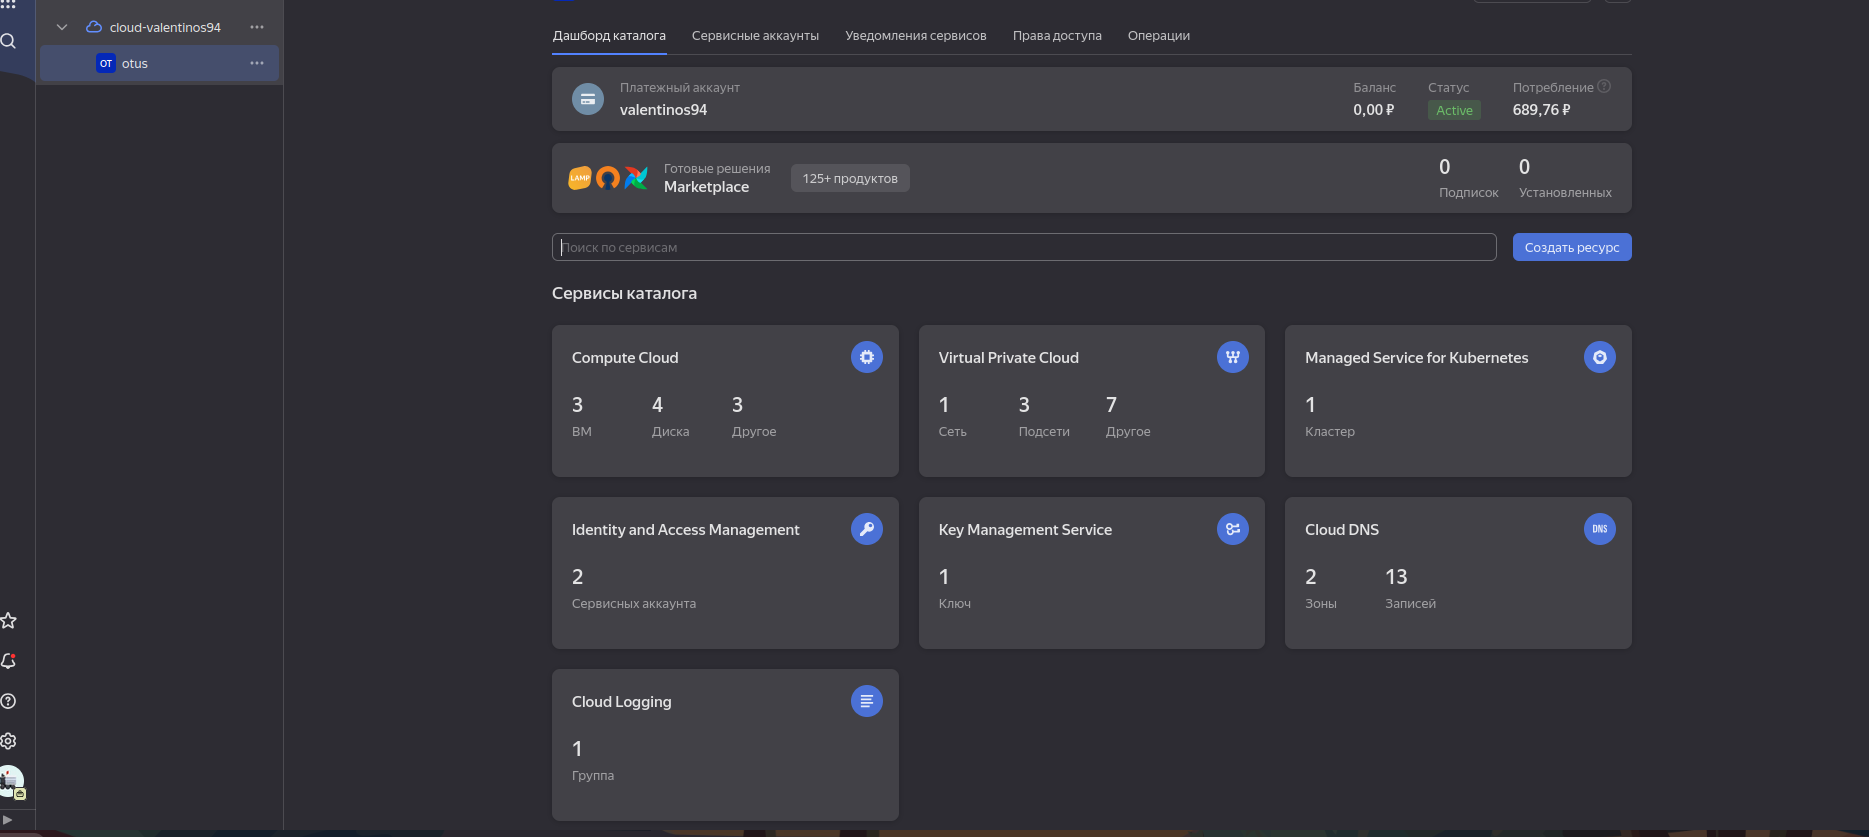
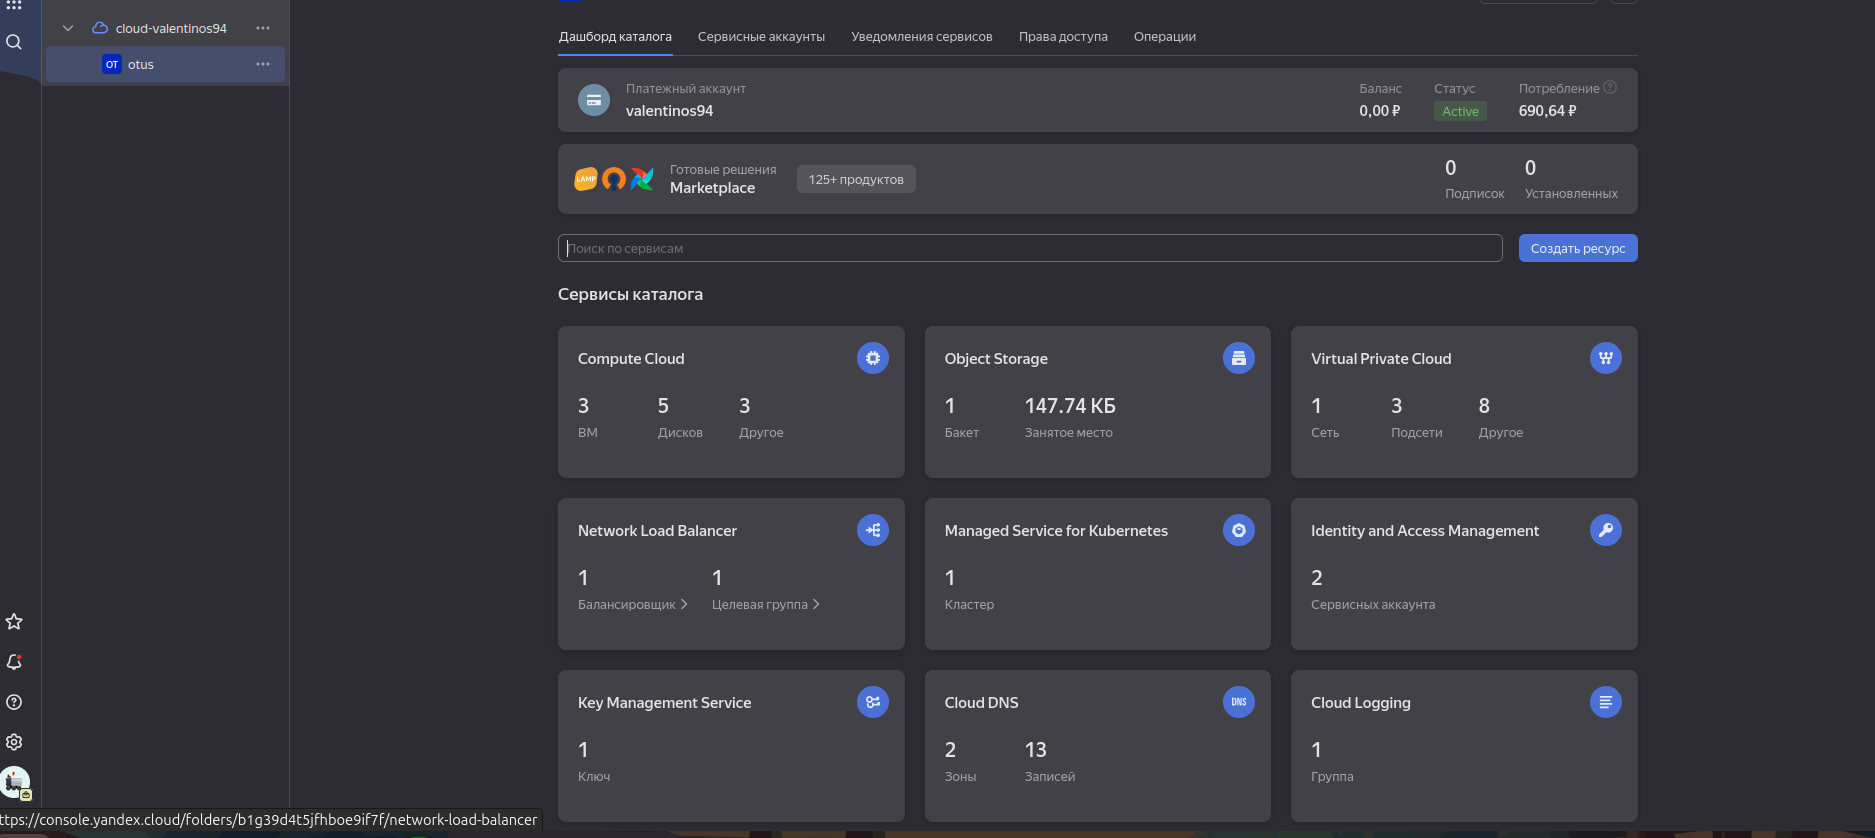
fix3: правка орфографии и части скриншотов

diff --git a/README.md b/README.md
@@ -439,7 +439,7 @@ $ yc compute instance list
 - namespace=argocd service-name=argocd-server  
 - namespace=app service-name=frontend  
 
-Предварительно прописаны сервисы типа NodePort и сами адреса портов, они должен совпадать с тем, что определяется в манифесте самого балансера.
+Предварительно прописаны сервисы типа NodePort и сами адреса портов, они должны совпадать с тем, что определяется в манифесте самого балансера.
 
 При первичном развертывании инфраструктуры terraform помимо самого nlb добавляет несколько связанных с ним ресурсов:
 - сам балансировщик
@@ -461,9 +461,11 @@ $ yc compute instance list
 Обработчики целевой группы:  
 ![screenshots/21-lb-listeners.png](screenshots/21-lb-listeners.png.png) 
 
-очень жаль, что у nlb нету красивой карты балансировки, как у alb, но это не помешает нам получить доступ к нашим сервисам извне!
+Проверка состояния целевых групп периодически может сигналить об ошибках доступности какой то из нод, на работу балансировщика в общем случае это не влияет.  
 
-после запуска балансировщика при первичной установке инфраструктуры и автоматической установки прикладного ПО проверяем доступность указанных сервисов по адресам:
+Очень жаль, что у nlb нету красивой карты балансировки, как у alb, но это не помешает нам получить доступ к нашим сервисам извне!  
+
+После запуска балансировщика при первичной установке инфраструктуры и автоматической установки прикладного ПО проверяем доступность указанных сервисов по адресам:
 
 - http://158.160.131.99:81 - графана  
 ![screenshots/22-external-grafna.png](screenshots/22-external-grafna.png) 
